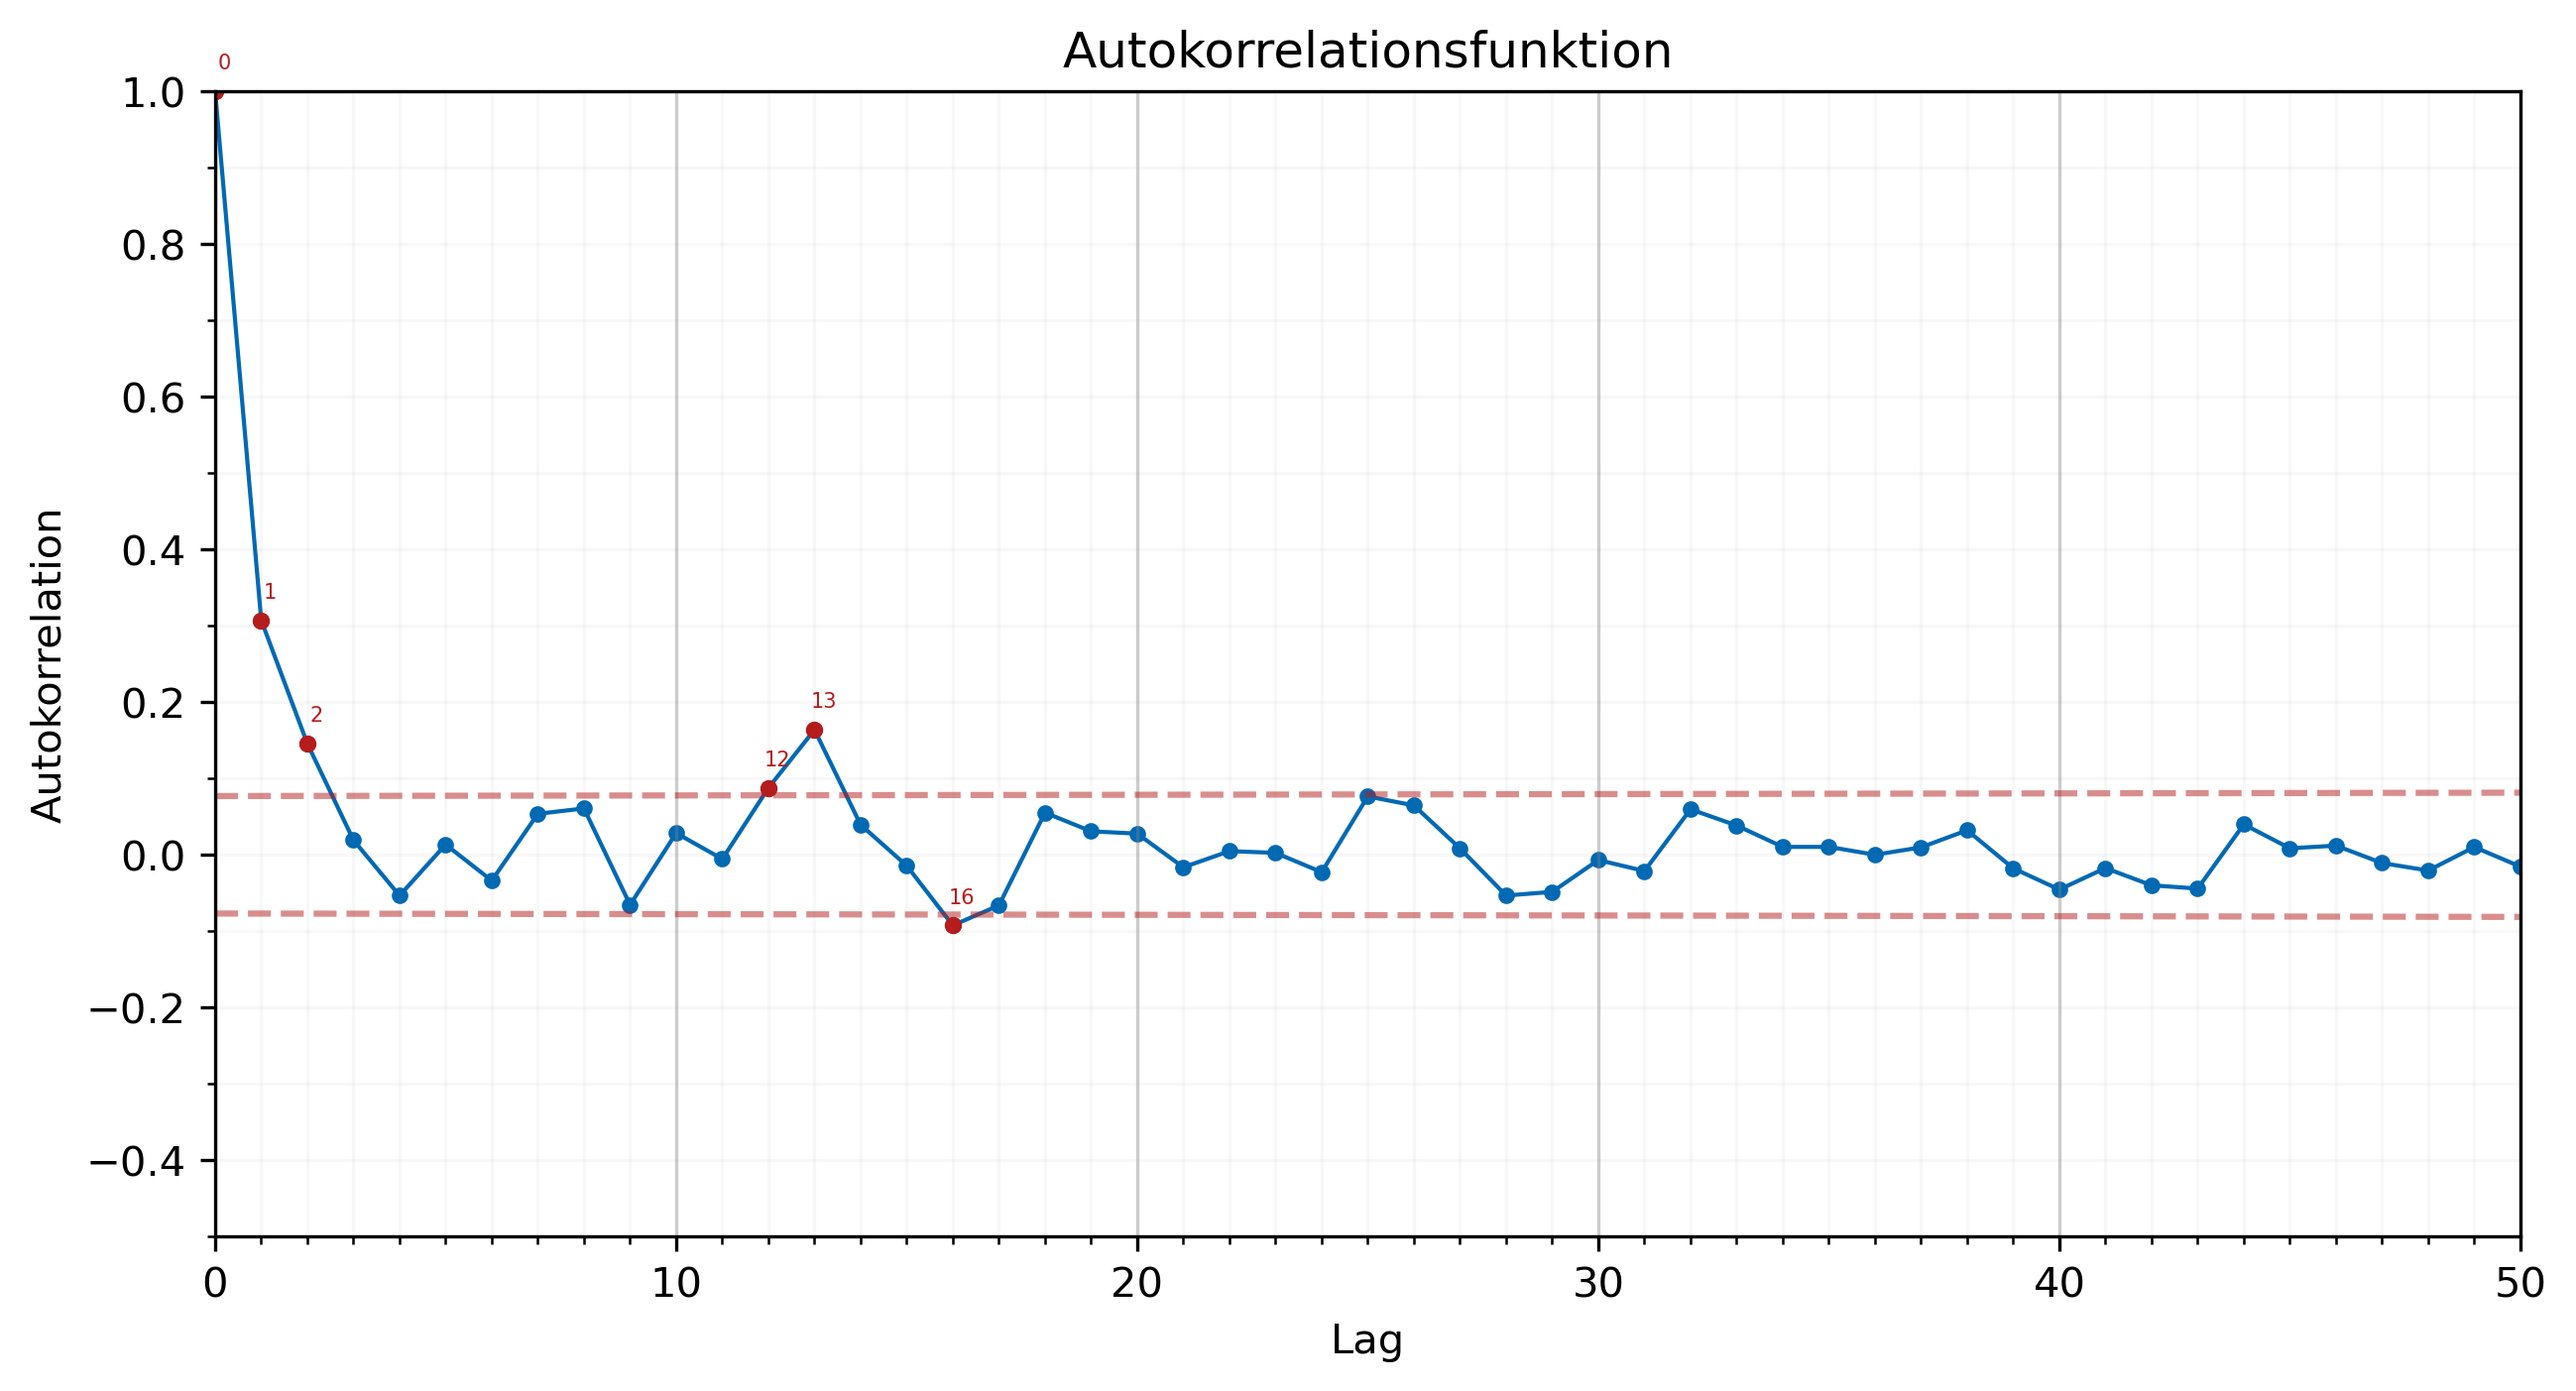
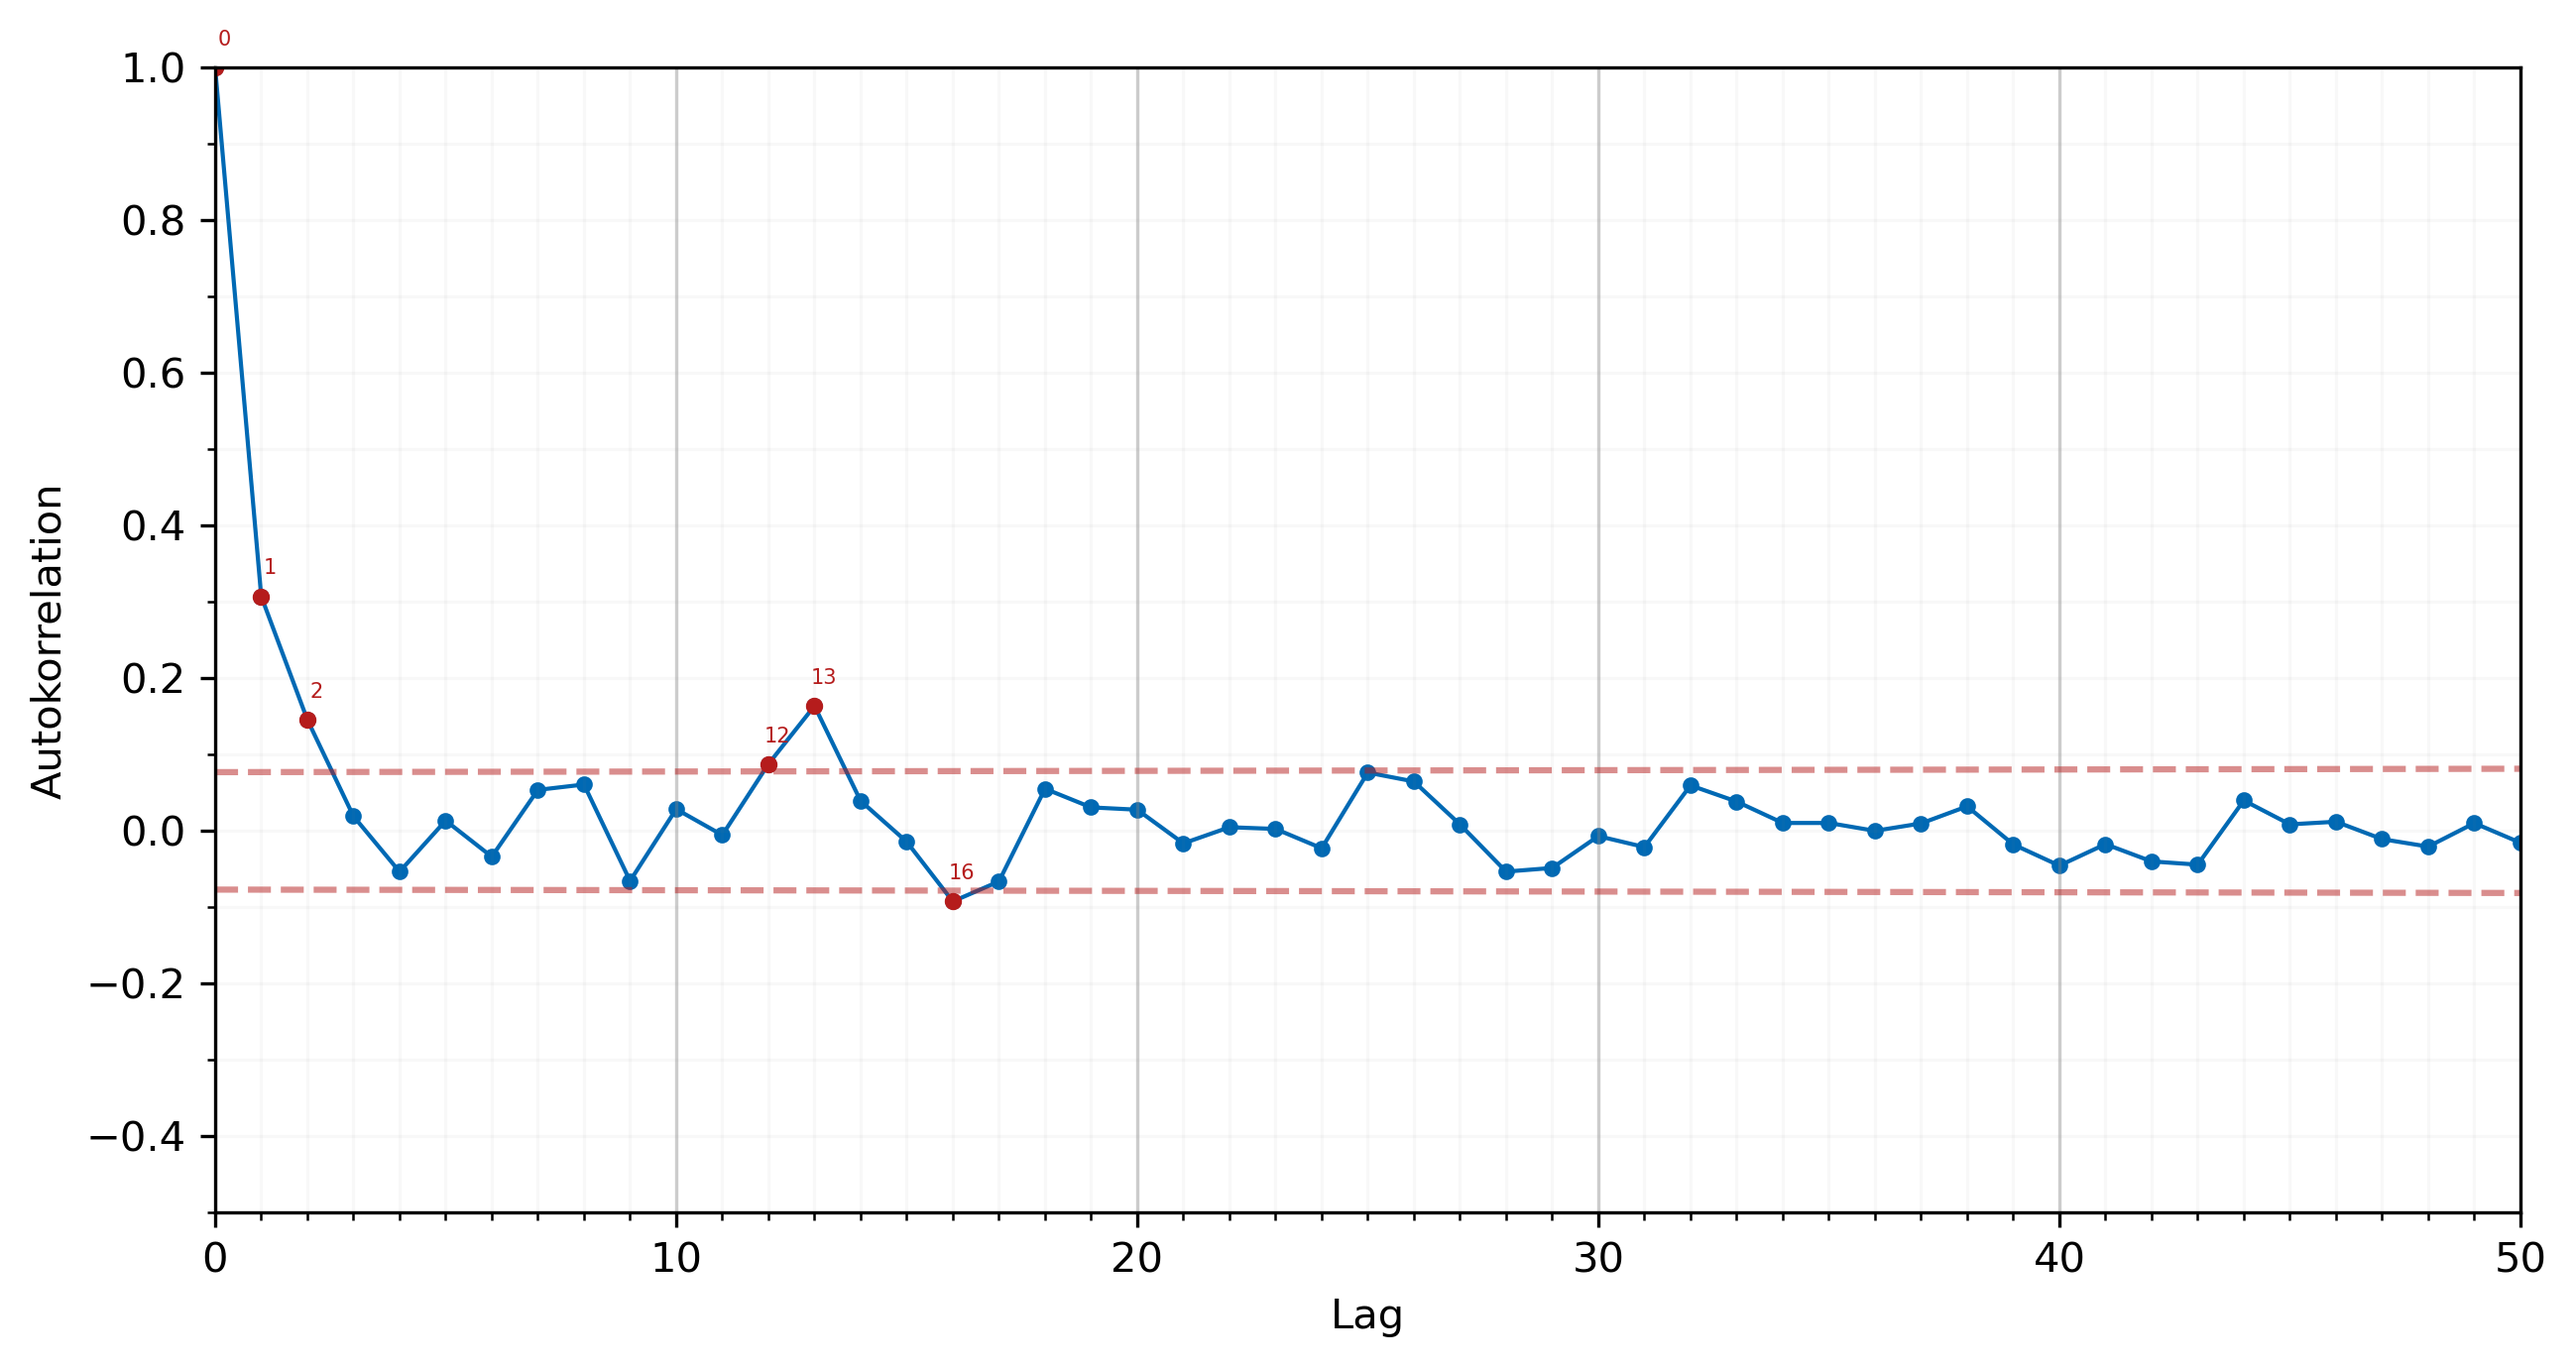
🎨 Beautify plots. Update README.

diff --git a/code/utils/plotting.py b/code/utils/plotting.py
@@ -178,9 +178,9 @@ def plot_hist(df: pd.DataFrame):
     
     bins = np.arange(-2, 8, 0.25)
 
-    ax[0].hist(df["Durchfluss_m3s"], bins=bins, color=tu_mediumblue, lw=0.8, edgecolor="black", alpha=0.8)
+    ax[0].hist(df["Durchfluss_m3s"], bins=bins, color=tu_grey, lw=0.8, edgecolor="black", alpha=0.8)
     ax[1].hist(df["saisonber"], bins=bins, color=tu_mediumblue, lw=0.8, edgecolor="black", alpha=0.8)
-    ax[2].hist(df["zufall"], bins=bins, color=tu_mediumblue, lw=0.8, edgecolor="black", alpha=0.8)
+    ax[2].hist(df["zufall"], bins=bins, color=tu_red, lw=0.8, edgecolor="black", alpha=0.8)
     
     ax[0].set_ylabel("empirische Häufigkeit")
     ax[0].set_xlabel("Durchfluss der Rohdaten [m³/s]")
@@ -204,9 +204,9 @@ def plot_characteristics(df: pd.DataFrame):
     
     _, ax = plt.subplots(nrows=2, ncols=4, figsize=(13, 6))
     
-    labels = ["Rohdaten", "Zufallskomponente"]
-    vars = ["Durchfluss_m3s", "zufall"]
-    colors = [tu_grey, tu_red]
+    labels = ["Rohdaten", "Saisonbereinigte Zeitreihe", "Zufallskomponente"]
+    vars = ["Durchfluss_m3s", "saisonber", "zufall"]
+    colors = [tu_grey, tu_mediumblue, tu_red]
     titles = ["Arith. Mittel (m³/s)", "Varianz (m³/s)²", "Schiefe (-)", "Autokorrelation $r_{1}$(-)"]
 
     for i in range(len(labels)):
@@ -273,7 +273,6 @@ def plot_acf(df: pd.DataFrame, var: str = "normiert"):
     ax.grid(which="minor", axis="y", color="grey", alpha=0.05)
     ax.set_xlabel("Lag")
     ax.set_ylabel("Autokorrelation")
-    ax.set_title("Autokorrelationsfunktion")
     if var == "normiert":
         fn = image_path+f"{pegelname}_acf.png"
     elif var == "Durchfluss_m3s":

diff --git a/README.md b/README.md
@@ -1,25 +1,5 @@
 [![CI](https://github.com/lenamueller/StochastischeSpeicherbemessung/actions/workflows/python-app.yml/badge.svg)](https://github.com/lenamueller/StochastischeSpeicherbemessung/actions/workflows/python-app.yml)
-[![repo status - active](https://img.shields.io/badge/repo_status-active-green)](https://)
 [![python - 3.11.5](https://img.shields.io/badge/python-3.11.5-ffe05c?logo=python&logoColor=4685b7)](https://)
-[![field of application - hydrology](https://img.shields.io/badge/field_of_application-hydrology-00aaff)](https://)
-
-# Content
-
-#### code/
-- utils/*.py:    helper functions
-- main.py:       main script
-- setup.py:      setup script
-
-#### data/
-- Daten_*_raw.txt:  raw data
-- Daten_*_detrended.txt:  detrended data
-- Daten_*_seasonal.txt:  seasonal data
-- Daten_*_residual.txt:  residual data
-
-####  images/
-images generated with main.py
-#### reports/
-reports generated with main.py
 
 # Usage
 #### 1. Clone the repository
